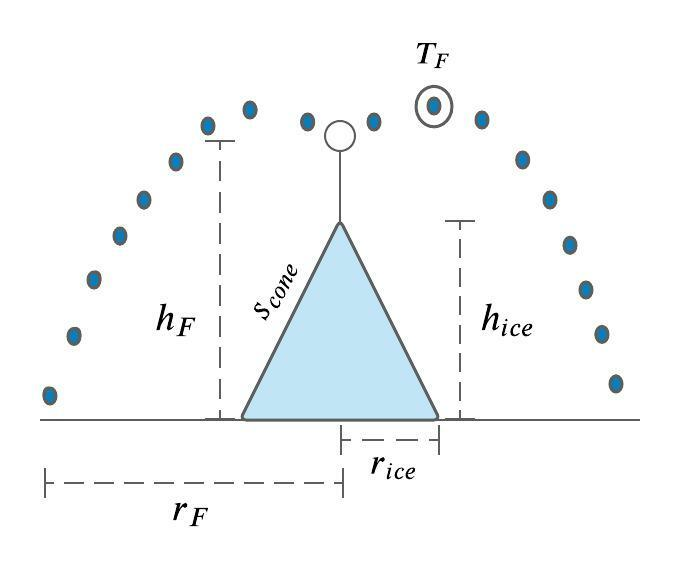
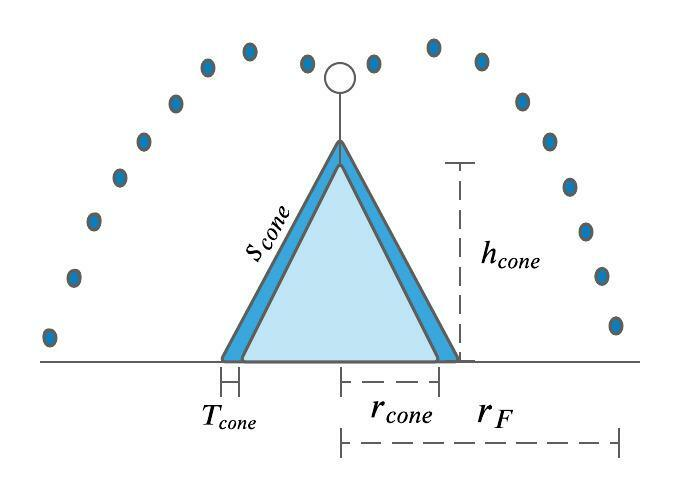
define shape vars

diff --git a/air.tex b/air.tex
@@ -274,8 +274,8 @@ The model assumes the AIR shape to be a cone and assigns it the following shape 
 
 where $r_{cone}^i$ is the radius; $h_{cone}^i$ is the height; $A_{cone}$ is the surface area; $A_{corr}$ is a
 correction factor with values between 1 and 2 that accounts for the deviation in AIR surface area from that of
-the modelled conical surface; $V_{cone}$ is the volume and $T_{cone}$ is the AIR net surface normal thickness
-rate as shown in \ref{fig:shape}.
+the modelled conical surface; $V_{cone}$ is the volume and $T_{cone}$ is the AIR surface normal thickness
+change as shown in \ref{fig:shape}.
 
 With the mass of the AIR $M_{ice}$, its current volume can also be expressed as:
 
@@ -318,11 +318,9 @@ where $\Delta M_{ice} = M_{ice}^{i-1} - M_{ice}^{i-2}$
 		\includegraphics[width=10
 			cm]{Figures/shape_parameters.jpeg}
 	\end{center}
-	\caption{Shape variables and fountain constants of the AIR. $r_{cone}$ is
-		the radius, $h_{cone}$ is the height and $s_{cone}$ is the slope of the ice cone. $r_F$ is the spray radius, $h_F$ is the
-		height and $T_F$ is the water temperature of the fountain.}
-	\label{fig:shape}
-\end{figure}
+	\caption{Shape variables and fountain constants of the AIR. $r_{cone}$ is the radius, $h_{cone}$ is the
+		height, $T_{cone}$ is the thickness change and $s_{cone}$ is the slope of the ice cone. $r_F$ is the spray
+		radius of the fountain.} \label{fig:shape} \end{figure}
 
 \subsection{Energy Balance} \label{sec:energy}
 
